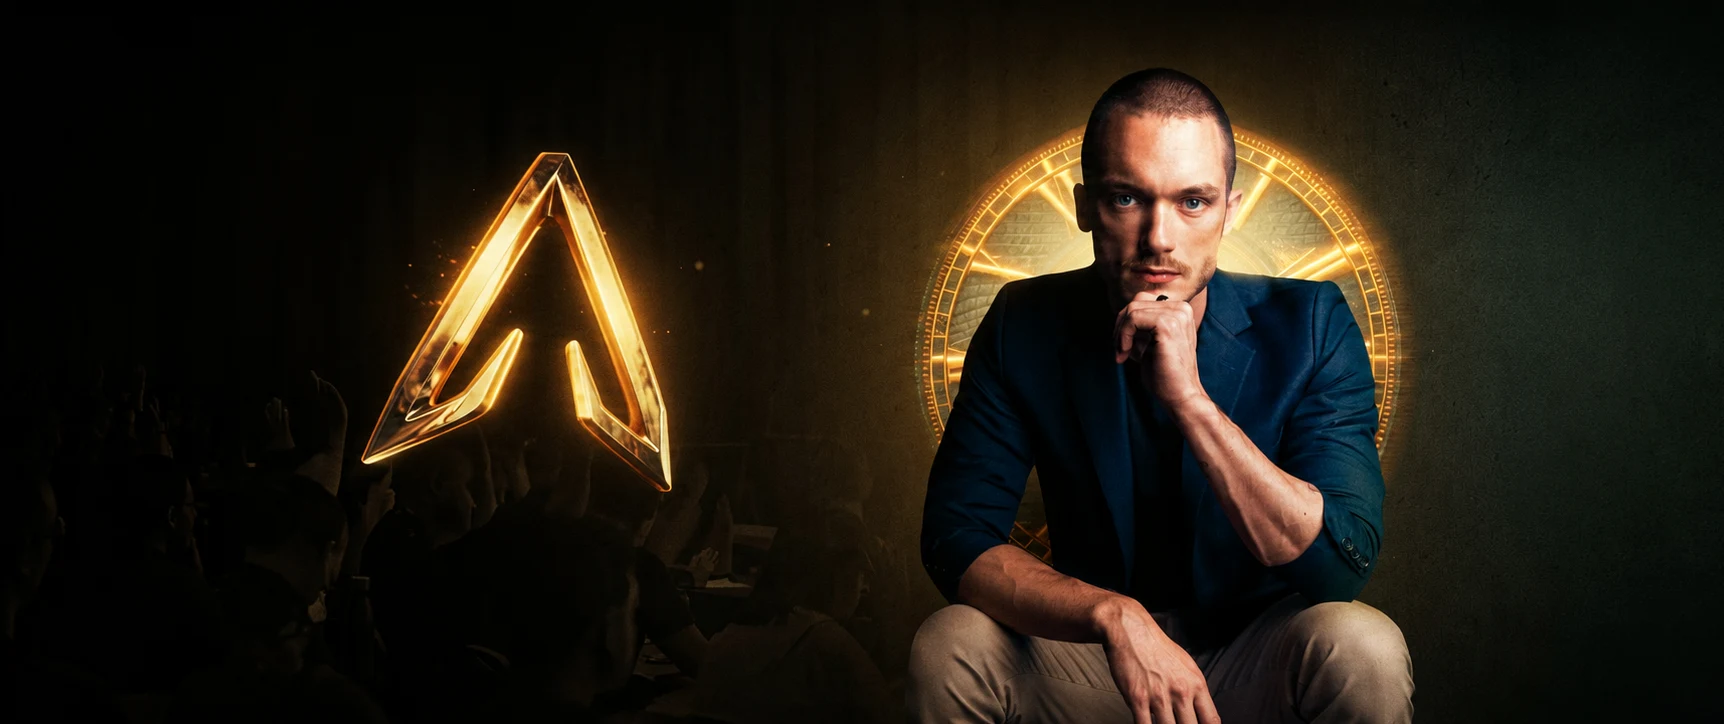
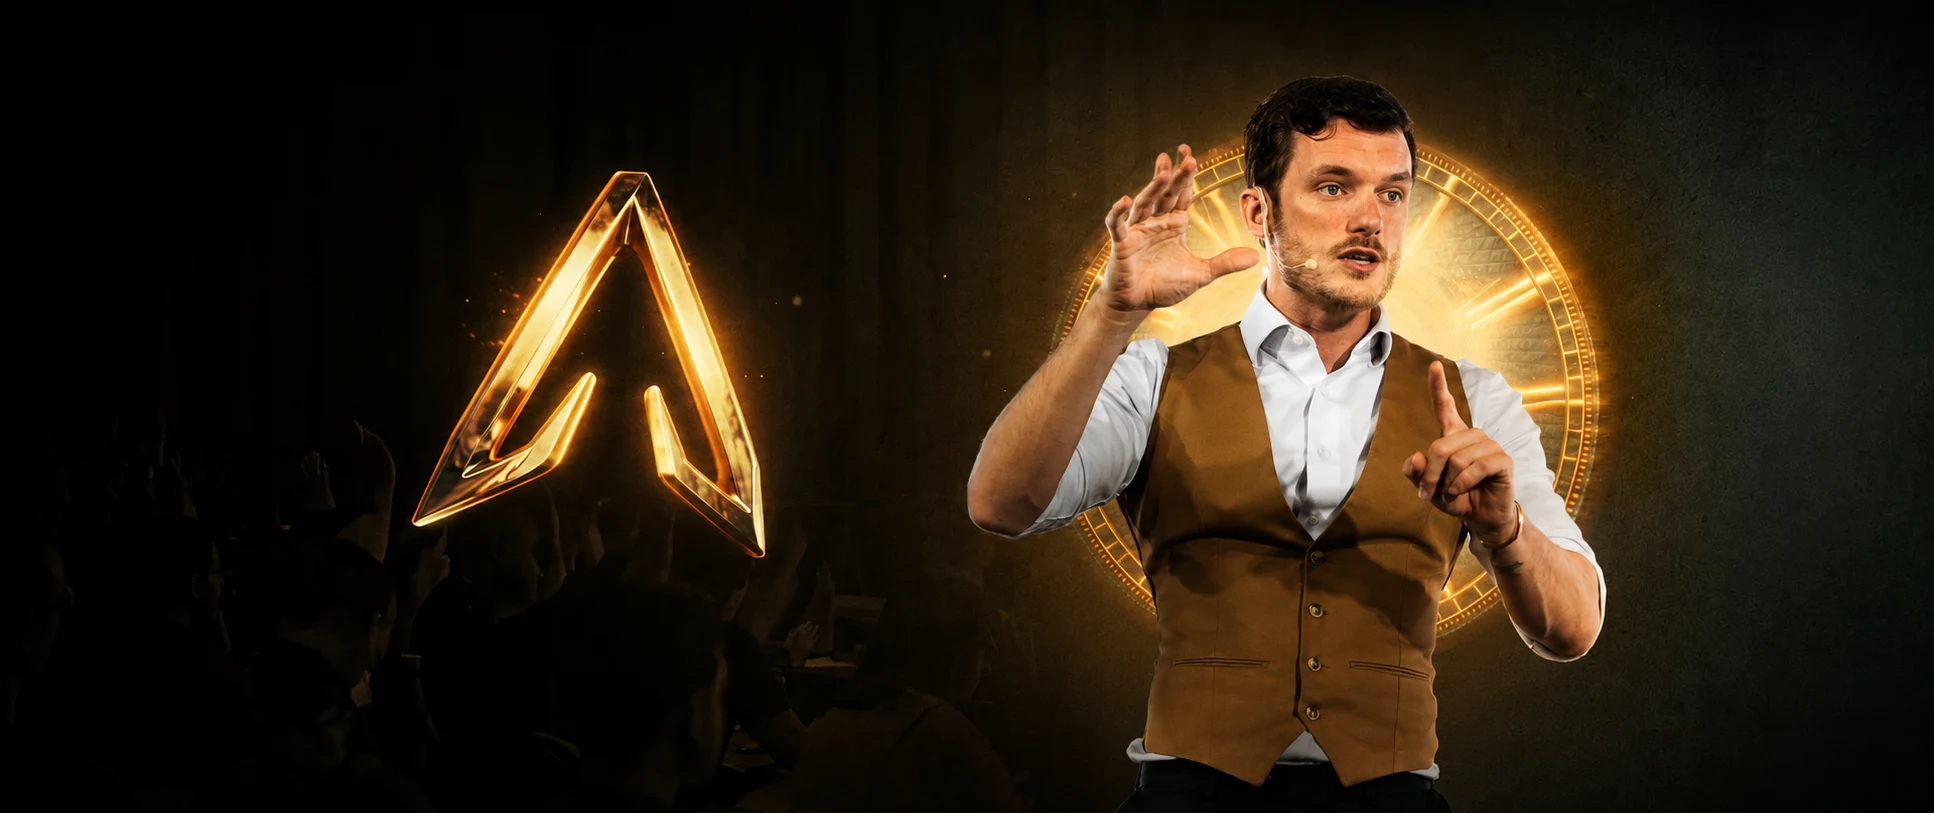
llsss

Changed region(s): [[0.4919, 0.0912, 0.8608, 1.0], [0.1845, 0.2127, 0.3997, 0.6989], [0.3997, 0.7597, 0.4304, 0.8204]]

diff --git a/index.html b/index.html
@@ -1325,7 +1325,7 @@
   <!-- contato / CTA: banner + aplicação em 2 etapas, tudo no mesmo popup -->
   <div class="scrim" id="ctaScrim">
     <div class="sheet">
-      <img src="bannertopo.webp" alt="" class="wbanner ctaBanner" id="ctaBannerImg">
+      <img src="bannertopo.webp?v=2" alt="" class="wbanner ctaBanner" id="ctaBannerImg">
       <div class="wprogress" id="ctaProgressWrap" style="display:none">
         <div class="wprogress-bar" id="ctaProgressBar"></div>
       </div>
@@ -1935,7 +1935,7 @@
         nav(sh, 'Voltar', 'Continuar'); upd();
         const privRow = document.createElement('div');
         privRow.style.cssText = 'text-align:center;margin-top:12px;font-size:12px;color:var(--muted)';
-        privRow.innerHTML = 'Ao continuar, você concorda com nossa <a href="/politicadeprivacidade.html" target="_blank" style="color:var(--gold);text-decoration:underline">Política de Privacidade</a>';
+        privRow.textContent = 'Ao continuar, você concorda com nossa Política de Privacidade';
         sh.appendChild(privRow);
       },
       function trabalho(sh) {